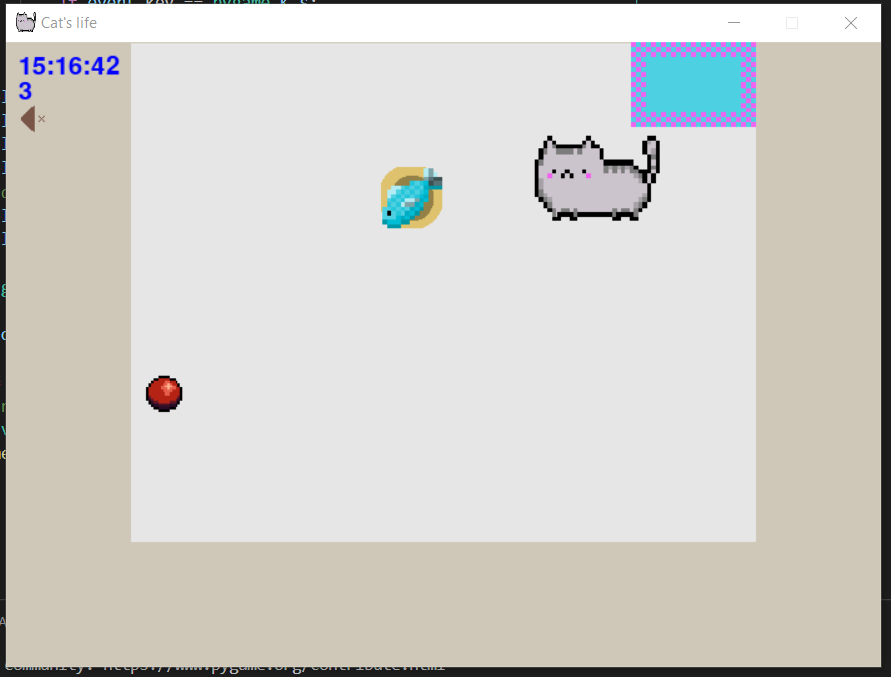
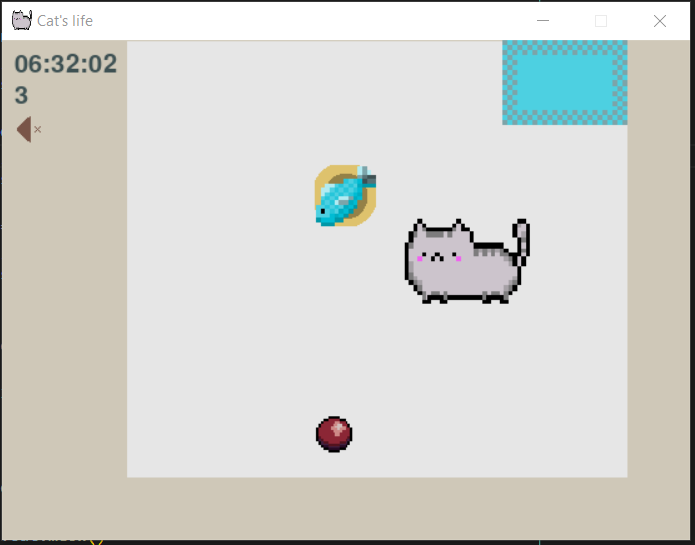
Changed UI. Added link to video to readme.

Changed region(s): [[0.0, 0.0, 0.9971, 1.0], [0.5741, 0.4055, 0.7856, 0.5615], [0.423, 0.2183, 0.5439, 0.4367]]

diff --git a/cat_live.py b/cat_live.py
@@ -57,19 +57,19 @@ class CatLive:
         pygame.time.set_timer(self.ANIMATION, 1000)
      
     def initBorders(self):
-        self.left_obstacle = Border(
+        self.left_border = Border(
             (0,0),(100, 400), [self.all_sprites, self.collision_sprites], 
             self.settings.obst_color)
         
-        self.right_obstacle = Border(
-            (600,0),(700, 700), [self.all_sprites, self.collision_sprites], 
+        self.right_border = Border(
+            (500,0),(500, 600), [self.all_sprites, self.collision_sprites], 
             self.settings.obst_color)
         
-        self.bottom_obstacle = Border(
-            (0,400),(700, 100), [self.all_sprites, self.collision_sprites], 
+        self.bottom_border = Border(
+            (0,350),(550, 400), [self.all_sprites, self.collision_sprites], 
             self.settings.obst_color)
         
-        self.top_obstacle = Border(
+        self.top_border = Border(
             (100,0),(600, 1), [self.all_sprites, self.collision_sprites], 
             self.settings.obst_color)
         

diff --git a/clock.py b/clock.py
@@ -6,12 +6,12 @@ class Clock():
     def __init__(self, cl_game):
         date_time = datetime.datetime.fromtimestamp(time.time())
         self.font = pygame.font.Font(None, 30)
-        self.clock = self.font.render(date_time.strftime("%H:%M:%S"), True, 'blue')
+        self.clock = self.font.render(date_time.strftime("%H:%M:%S"), True, '#3d5052')
         self.screen = cl_game.screen
     
     def update(self):
         """Draw the time"""
         
         date_time = datetime.datetime.fromtimestamp(time.time())
-        self.clock = self.font.render(date_time.strftime("%H:%M:%S"), True, 'blue')
+        self.clock = self.font.render(date_time.strftime("%H:%M:%S"), True, '#3d5052')
         self.screen.blit(self.clock, (10,10))

diff --git a/settings.py b/settings.py
@@ -3,9 +3,9 @@ class Settings():
     
     def __init__(self):
         self.bg_color = (230, 230, 230)
-        self.screen_width = 700
-        self.screen_border_width = 100
-        self.screen_height = 500
+        self.screen_width = 550
+        self.screen_border_width = 50
+        self.screen_height = 400
         self.screen_border_height = 100
         self.obst_color = (207, 200, 184)
         
@@ -34,7 +34,7 @@ class Settings():
         # Buttons
         self.images_of_button = ['images/mute.png',
                                  'images/un_mute.png']
-        self.mb_pos = (10,50)
+        self.mb_pos = (10,60)
         
         # time to start random roaming if no user input
         self.afk_delay = 10

diff --git a/score.py b/score.py
@@ -7,12 +7,12 @@ class Score():
         self.font = pygame.font.Font(None, 30)
         self.screen = cl_game.screen
         self.cat = cat
-        self.score = self.font.render(str(0), True, 'blue')
+        self.score = self.font.render(str(0), True, '#3d5052')
         self.score_value = 0
     
     def update(self):
         """Draw the score"""
         
         self.score_value = self.cat.fish_eaten
-        self.score = self.font.render(str(self.score_value), True, 'blue')
-        self.screen.blit(self.score, (10,30))
+        self.score = self.font.render(str(self.score_value), True, '#3d5052')
+        self.screen.blit(self.score, (10,35))

diff --git a/plate.py b/plate.py
@@ -29,7 +29,7 @@ class Plate(Sprite):
         # The plate appears on the board.
         self.rect.left = self.screen_rect.left + \
             (self.settings.screen_width-self.settings.screen_border_width)//2
-        self.rect.top = self.screen_rect.top + self.settings.screen_border_width
+        self.rect.top = self.screen_rect.top + 2 * self.settings.screen_border_width
         
     def empty(self):
         """Changes image of the plate to empty and starts timer"""

diff --git a/border.py b/border.py
@@ -2,7 +2,7 @@ import pygame
 from pygame.sprite import Sprite
 
 class Border(Sprite):
-    """Class for static obstacles"""
+    """Class for borders"""
     
     def __init__(self,pos,size,groups,color):
         super().__init__(groups)    

diff --git a/readme.md b/readme.md
@@ -1,8 +1,6 @@
-<div id="header" align="left">
-  <img src="https://media.giphy.com/media/vVegyymxA90fkY8jkE/giphy.gif" width="100"/>
-</div>
 <div id="profile-views-counter" align="left">
-  <img src="https://komarev.com/ghpvc/?username=mvvmmv&style=flat-square&color=blue" alt=""/>
+  <img src="https://komarev.com/ghpvc/?username=mvvmmv&style=flat-square&color=blue" alt=""/><br>
+  <img src="https://img.shields.io/badge/license-Unlicense-blue.svg"/>
 </div>
 <h1>Simple cat's life</h1>
 It's the simplest imitation of a cat's life.<br>
@@ -14,7 +12,7 @@ Cat can sleep, eat, play with the ball.<br>
 
 <img src="./images/readme/cat_s_life_2.png" alt="compare_files" width="300"/><br>
 
-<img src="./images/readme/cat_s_life_3.png" alt="compare_files" width="300"/><br>
+<a href="https://youtu.be/-E8zexPDTqM">To see how it works (YouTube link to demonstration)</a><br>
 
 <h3>Controls:</h3><br>
 1. LEFT, UP, DOWN, RIGH arrow keys -<br> 
